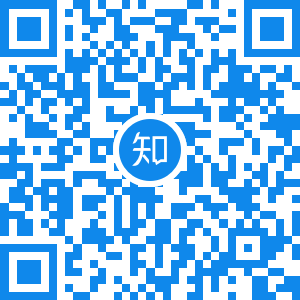
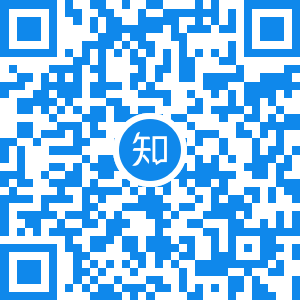
show qrcode

diff --git a/src/service/authenticate.service.ts b/src/service/authenticate.service.ts
@@ -234,5 +234,27 @@ export class AuthenticateService {
 			encoding: null
 		});
 		fs.writeFileSync(path.join(this.context.extensionPath, 'qrcode.png'), qrcode);
+		const panel = vscode.window.createWebviewPanel("zhihu", "验证码", { viewColumn: vscode.ViewColumn.One, preserveFocus: true });
+		const imgSrc = panel.webview.asWebviewUri(vscode.Uri.file(
+			path.join(this.context.extensionPath, './qrcode.png')
+		))
+		this.webviewService.renderHtml(
+			{
+				title: '二维码',
+				showOptions: {
+					viewColumn: vscode.ViewColumn.One,
+					preserveFocus: true
+				},
+				pugTemplatePath: path.join(
+					this.context.extensionPath,
+					TemplatePath,
+					'qrcode.pug'
+				),
+				pugObjects: {
+					title: '',
+					qrcodeSrc: imgSrc.toString()
+				}
+			}
+		)
 	}
 }

diff --git a/src/template/global.css b/src/template/global.css
@@ -40,6 +40,17 @@ button#favorite {
     border-radius: 50%;
 }
 
+img.qrcode {
+    margin: 0 auto;
+    margin-top: 180px;
+    box-shadow: 0px 0px 9px rgba(76, 49, 40, 1);
+}
+
+.qr-container {
+    margin: 0 auto;
+    text-align: center;
+}
+
 svg.Zi.Zi--Star.Button-zi {
     vertical-align: bottom;
 }
